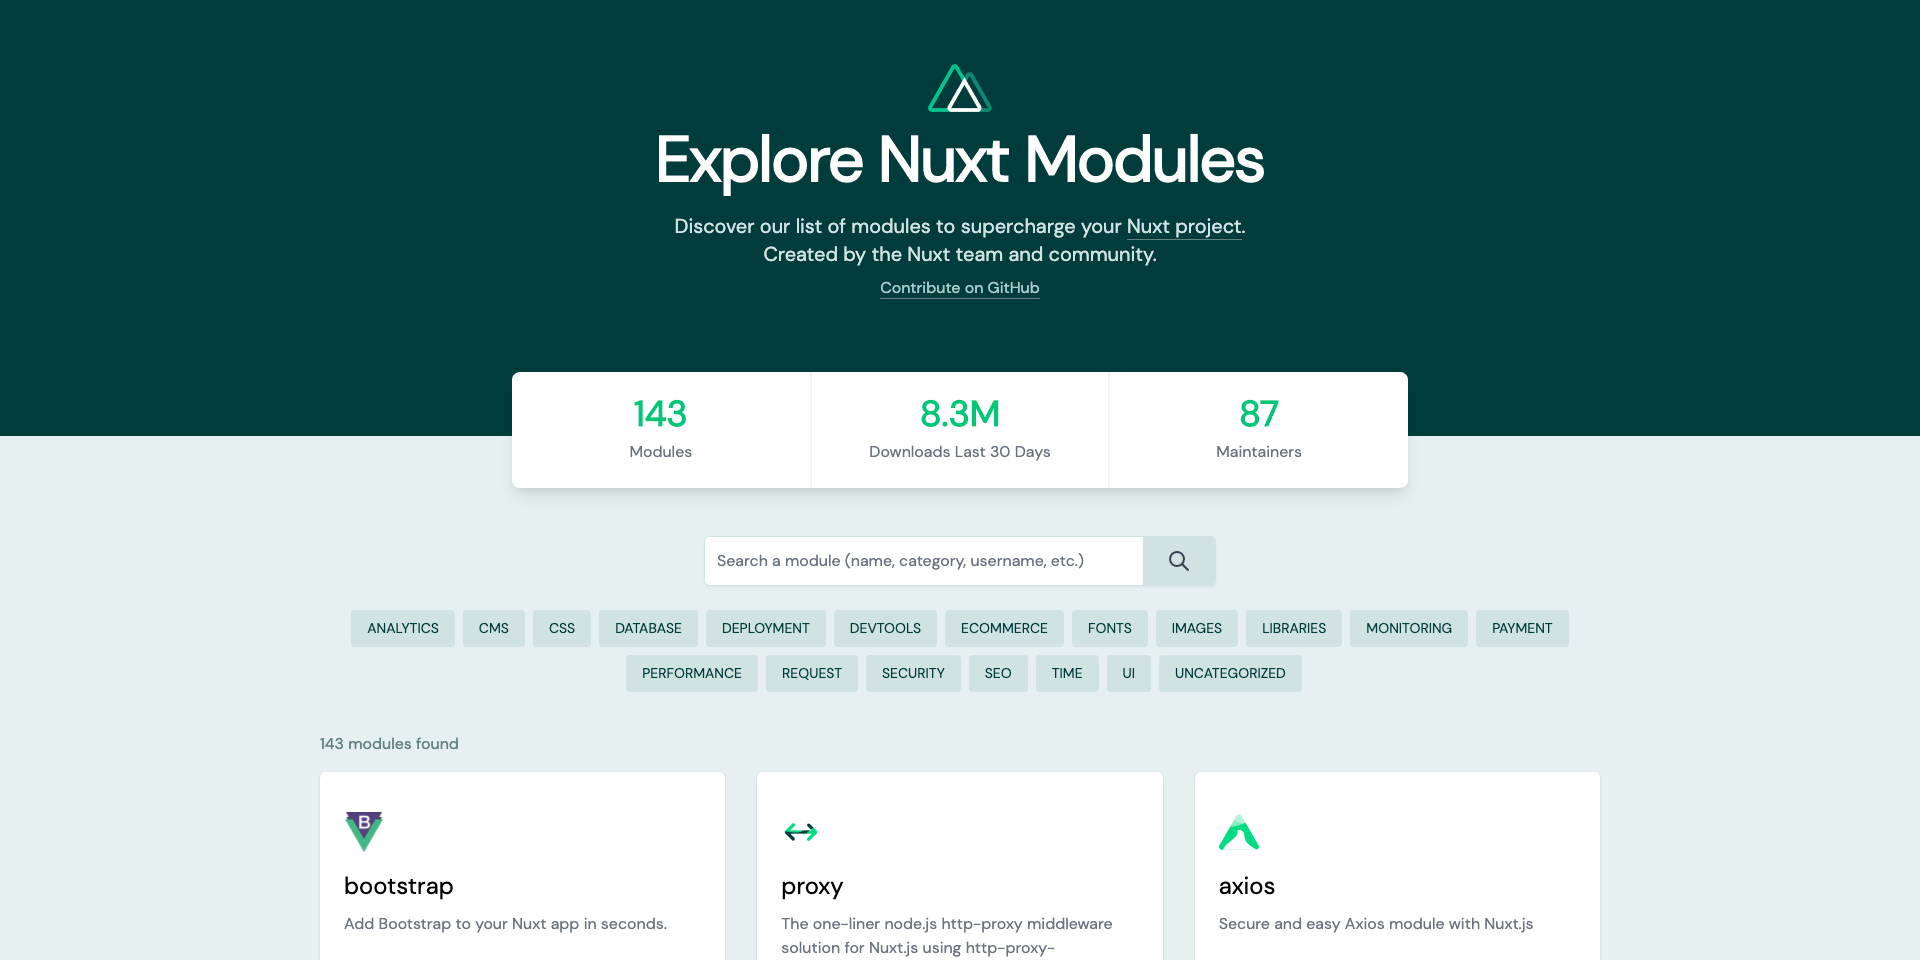
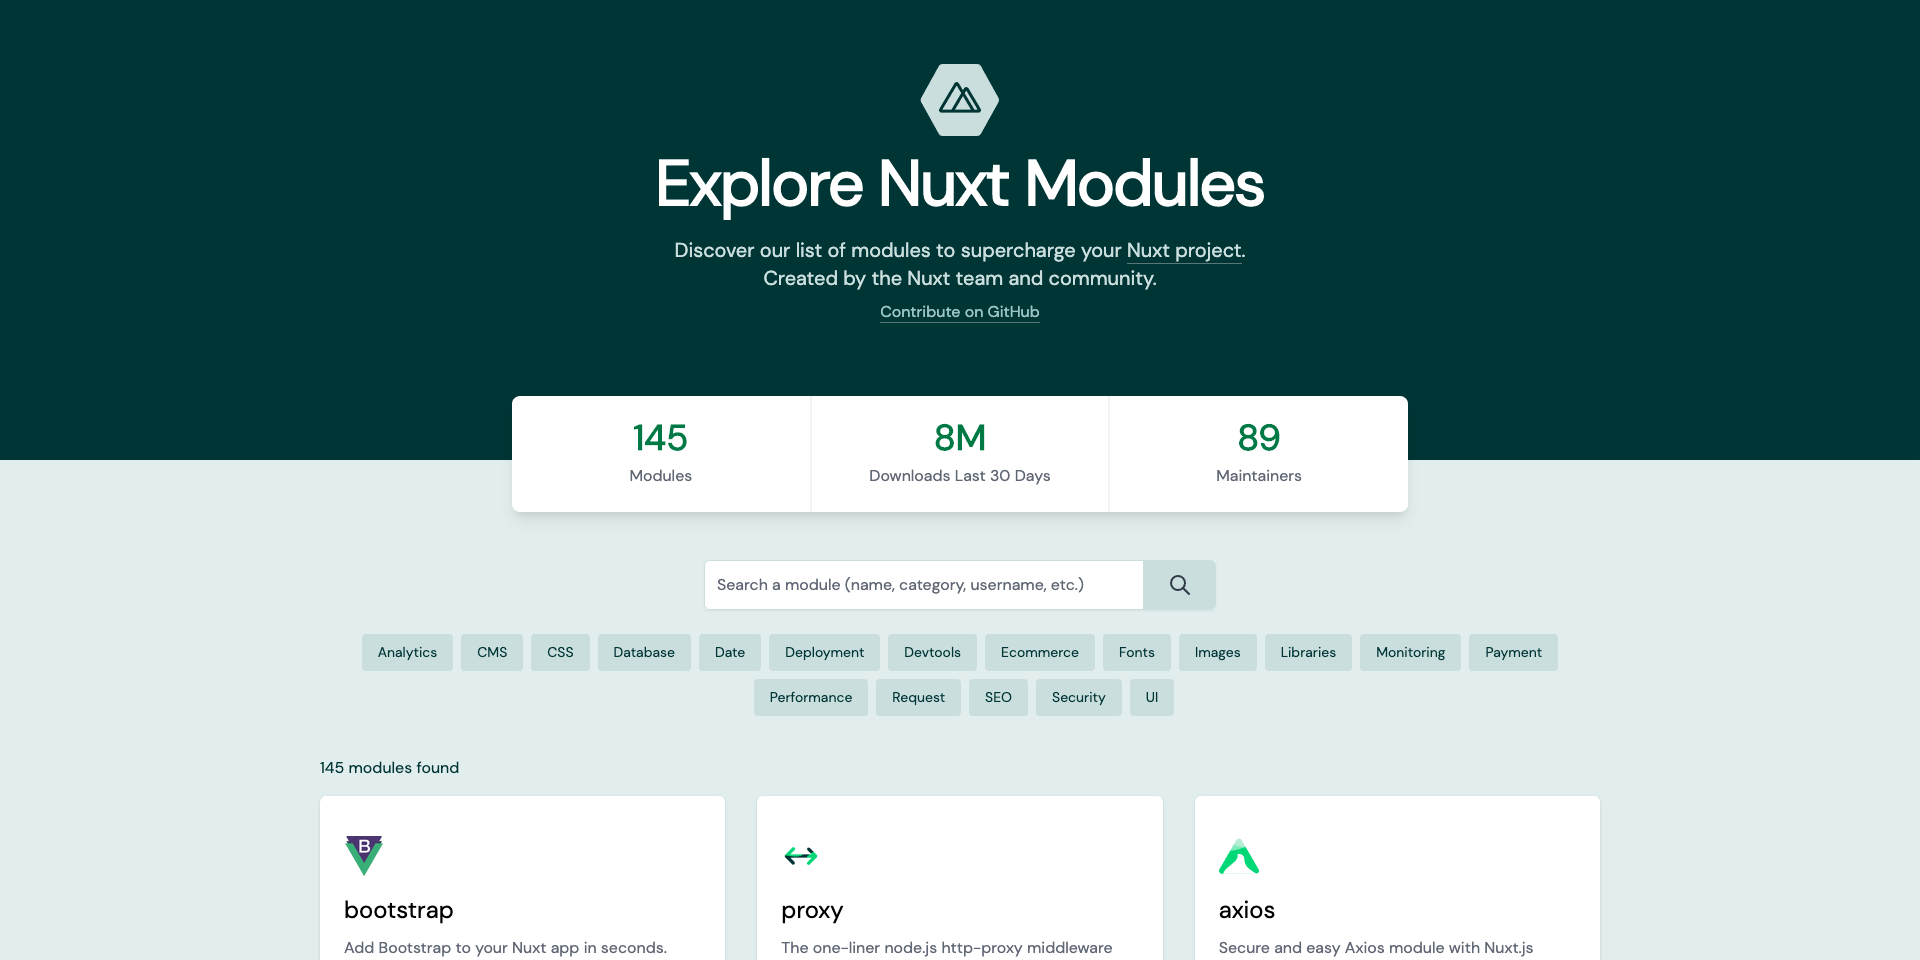
chore: update design

Changed region(s): [[0.0, 0.375, 1.0, 0.75], [0.1562, 0.75, 0.8438, 1.0], [0.3438, 0.0625, 0.6562, 0.3438]]

diff --git a/components/icons/IconWithNuxt.vue b/components/icons/IconWithNuxt.vue
@@ -1,29 +1,8 @@
 <template>
-  <svg
-    class="h-8"
-    viewBox="0 0 141 44"
-    fill="none"
-    xmlns="http://www.w3.org/2000/svg"
-  >
-    <path
-      d="M135.679 0H5.32075C2.38218 0 0 3.58172 0 8V36C0 40.4183 2.38218 44 5.32075 44H135.679C138.618 44 141 40.4183 141 36V8C141 3.58172 138.618 0 135.679 0Z"
-      fill="#003C3C"
-    />
-    <path
-      d="M114.815 17.233L113.925 18.7443L110.882 13.5743L101.541 29.4431H107.865C107.865 30.2778 108.555 30.9544 109.406 30.9544H101.541C100.99 30.9544 100.482 30.6662 100.207 30.1986C99.9315 29.731 99.9315 29.155 100.207 28.6874L109.548 12.8187C109.823 12.3511 110.332 12.063 110.882 12.063C111.433 12.063 111.942 12.3511 112.217 12.8187L114.815 17.233V17.233Z"
-      fill="#00DC82"
-    />
-    <path
-      d="M121.558 28.6874L115.705 18.7442L114.815 17.2329L113.925 18.7442L108.072 28.6874C107.797 29.1549 107.797 29.731 108.072 30.1986C108.347 30.6661 108.856 30.9543 109.406 30.9543H120.222C120.773 30.9543 121.281 30.6665 121.557 30.1988C121.832 29.7312 121.832 29.155 121.557 28.6874H121.558ZM109.406 29.443L114.815 20.2555L120.222 29.443H109.406L109.406 29.443Z"
-      fill="#00DC82"
-    />
-    <path
-      d="M125.743 30.1987C125.468 30.6662 124.96 30.9543 124.409 30.9543H120.222C121.073 30.9543 121.763 30.2777 121.763 29.443H124.406L116.906 16.702L115.705 18.7442L114.815 17.2329L115.572 15.9464C115.848 15.4787 116.356 15.1907 116.907 15.1907C117.457 15.1907 117.966 15.4787 118.241 15.9464L125.743 28.6873C126.018 29.1549 126.018 29.7311 125.743 30.1987V30.1987Z"
-      fill="#00DC82"
-    />
-    <path
-      d="M16.136 30V18.8H18.136L21.928 26.256L25.704 18.8H27.704V30H26.008V21.728L22.584 28.4H21.272L17.832 21.744V30H16.136ZM32.6038 30.192C31.9318 30.192 31.3771 30.08 30.9398 29.856C30.5024 29.632 30.1771 29.3387 29.9638 28.976C29.7504 28.6027 29.6438 28.1973 29.6438 27.76C29.6438 26.992 29.9424 26.384 30.5398 25.936C31.1371 25.488 31.9904 25.264 33.0998 25.264H35.1798V25.12C35.1798 24.5013 35.0091 24.0373 34.6678 23.728C34.3371 23.4187 33.9051 23.264 33.3718 23.264C32.9024 23.264 32.4918 23.3813 32.1398 23.616C31.7984 23.84 31.5904 24.176 31.5158 24.624H29.8198C29.8731 24.048 30.0651 23.5573 30.3958 23.152C30.7371 22.736 31.1638 22.4213 31.6758 22.208C32.1984 21.984 32.7691 21.872 33.3878 21.872C34.4971 21.872 35.3558 22.1653 35.9638 22.752C36.5718 23.328 36.8758 24.1173 36.8758 25.12V30H35.4038L35.2598 28.64C35.0358 29.0773 34.7104 29.4453 34.2838 29.744C33.8571 30.0427 33.2971 30.192 32.6038 30.192ZM32.9398 28.816C33.3984 28.816 33.7824 28.7093 34.0918 28.496C34.4118 28.272 34.6571 27.9787 34.8278 27.616C35.0091 27.2533 35.1211 26.8533 35.1638 26.416H33.2758C32.6038 26.416 32.1238 26.5333 31.8358 26.768C31.5584 27.0027 31.4198 27.296 31.4198 27.648C31.4198 28.0107 31.5531 28.2987 31.8198 28.512C32.0971 28.7147 32.4704 28.816 32.9398 28.816ZM42.4693 30.192C41.7013 30.192 41.0239 30.0107 40.4373 29.648C39.8506 29.2853 39.3919 28.7893 39.0613 28.16C38.7306 27.5307 38.5653 26.816 38.5653 26.016C38.5653 25.216 38.7306 24.5067 39.0613 23.888C39.3919 23.2587 39.8506 22.768 40.4373 22.416C41.0346 22.0533 41.7173 21.872 42.4852 21.872C43.1146 21.872 43.6639 21.9947 44.1333 22.24C44.6133 22.4853 44.9866 22.832 45.2533 23.28V18.48H46.9493V30H45.4293L45.2533 28.768C44.9973 29.1413 44.6453 29.472 44.1973 29.76C43.7493 30.048 43.1733 30.192 42.4693 30.192ZM42.7733 28.72C43.4986 28.72 44.0906 28.4693 44.5493 27.968C45.0186 27.4667 45.2533 26.8213 45.2533 26.032C45.2533 25.232 45.0186 24.5867 44.5493 24.096C44.0906 23.5947 43.4986 23.344 42.7733 23.344C42.0479 23.344 41.4506 23.5947 40.9813 24.096C40.5119 24.5867 40.2773 25.232 40.2773 26.032C40.2773 26.5547 40.3839 27.0187 40.5973 27.424C40.8106 27.8293 41.1039 28.1493 41.4773 28.384C41.8613 28.608 42.2933 28.72 42.7733 28.72ZM52.7996 30.192C52.021 30.192 51.3276 30.0213 50.7196 29.68C50.1223 29.328 49.653 28.8427 49.3116 28.224C48.9703 27.6053 48.7996 26.8853 48.7996 26.064C48.7996 25.232 48.965 24.5013 49.2956 23.872C49.637 23.2427 50.1063 22.752 50.7036 22.4C51.3116 22.048 52.0156 21.872 52.8156 21.872C53.5943 21.872 54.2716 22.048 54.8476 22.4C55.4236 22.7413 55.8716 23.2 56.1916 23.776C56.5116 24.352 56.6716 24.9867 56.6716 25.68C56.6716 25.7867 56.6663 25.904 56.6556 26.032C56.6556 26.1493 56.6503 26.2827 56.6396 26.432H50.4636C50.517 27.2 50.7676 27.7867 51.2156 28.192C51.6743 28.5867 52.2023 28.784 52.7996 28.784C53.2796 28.784 53.6796 28.6773 53.9996 28.464C54.3303 28.24 54.5756 27.9413 54.7356 27.568H56.4316C56.2183 28.3147 55.7916 28.9387 55.1516 29.44C54.5223 29.9413 53.7383 30.192 52.7996 30.192ZM52.7996 23.264C52.2343 23.264 51.733 23.4347 51.2956 23.776C50.8583 24.1067 50.5916 24.608 50.4956 25.28H54.9756C54.9436 24.6613 54.725 24.1707 54.3196 23.808C53.9143 23.4453 53.4076 23.264 52.7996 23.264ZM64.0466 30L61.7106 22.064H63.4066L64.9426 28.048L66.6706 22.064H68.5586L70.2866 28.048L71.8226 22.064H73.5186L71.1826 30H69.4386L67.6146 23.76L65.7906 30H64.0466ZM75.8758 20.56C75.5558 20.56 75.2891 20.464 75.0758 20.272C74.8731 20.0693 74.7718 19.8187 74.7718 19.52C74.7718 19.2213 74.8731 18.976 75.0758 18.784C75.2891 18.5813 75.5558 18.48 75.8758 18.48C76.1958 18.48 76.4571 18.5813 76.6598 18.784C76.8731 18.976 76.9798 19.2213 76.9798 19.52C76.9798 19.8187 76.8731 20.0693 76.6598 20.272C76.4571 20.464 76.1958 20.56 75.8758 20.56ZM75.0278 30V22.064H76.7238V30H75.0278ZM82.2906 30C81.512 30 80.8933 29.8133 80.4346 29.44C79.976 29.056 79.7466 28.3787 79.7466 27.408V23.488H78.3866V22.064H79.7466L79.9546 20.048H81.4426V22.064H83.6826V23.488H81.4426V27.408C81.4426 27.8453 81.5333 28.1493 81.7146 28.32C81.9066 28.48 82.232 28.56 82.6906 28.56H83.6026V30H82.2906ZM85.4314 30V18.48H87.1274V23.344C87.394 22.8853 87.762 22.528 88.2314 22.272C88.7114 22.0053 89.2394 21.872 89.8154 21.872C90.7647 21.872 91.5114 22.1707 92.0554 22.768C92.5994 23.3653 92.8714 24.256 92.8714 25.44V30H91.1914V25.616C91.1914 24.08 90.578 23.312 89.3514 23.312C88.7114 23.312 88.178 23.536 87.7514 23.984C87.3354 24.432 87.1274 25.072 87.1274 25.904V30H85.4314Z"
-      fill="#E6F0F0"
-    />
+  <svg class="h-8" viewBox="0 0 204 44" fill="none" xmlns="http://www.w3.org/2000/svg">
+    <path d="M196.302 0H7.69811C3.44656 0 0 3.58172 0 8V36C0 40.4183 3.44656 44 7.69811 44H196.302C200.553 44 204 40.4183 204 36V8C204 3.58172 200.553 0 196.302 0Z" fill="#003C3C"/>
+    <path d="M55.184 28V16.8H56.752L60.784 24.608L64.784 16.8H66.368V28H65.024V19.2L61.28 26.4H60.272L56.528 19.216V28H55.184ZM71.2909 28.192C70.6295 28.192 70.0802 28.08 69.6429 27.856C69.2055 27.632 68.8802 27.3333 68.6669 26.96C68.4535 26.5867 68.3469 26.1813 68.3469 25.744C68.3469 24.9333 68.6562 24.3093 69.2749 23.872C69.8935 23.4347 70.7362 23.216 71.8029 23.216H73.9469V23.12C73.9469 22.4267 73.7655 21.904 73.4029 21.552C73.0402 21.1893 72.5549 21.008 71.9469 21.008C71.4242 21.008 70.9709 21.1413 70.5869 21.408C70.2135 21.664 69.9789 22.0427 69.8829 22.544H68.5069C68.5602 21.968 68.7522 21.4827 69.0829 21.088C69.4242 20.6933 69.8455 20.3947 70.3469 20.192C70.8482 19.9787 71.3815 19.872 71.9469 19.872C73.0562 19.872 73.8882 20.1707 74.4429 20.768C75.0082 21.3547 75.2909 22.1387 75.2909 23.12V28H74.0909L74.0109 26.576C73.7869 27.024 73.4562 27.408 73.0189 27.728C72.5922 28.0373 72.0162 28.192 71.2909 28.192ZM71.4989 27.056C72.0109 27.056 72.4482 26.9227 72.8109 26.656C73.1842 26.3893 73.4669 26.0427 73.6589 25.616C73.8509 25.1893 73.9469 24.7413 73.9469 24.272V24.256H71.9149C71.1255 24.256 70.5655 24.3947 70.2349 24.672C69.9149 24.9387 69.7549 25.2747 69.7549 25.68C69.7549 26.096 69.9042 26.432 70.2029 26.688C70.5122 26.9333 70.9442 27.056 71.4989 27.056ZM80.9071 28.192C80.1178 28.192 79.4245 28.0107 78.8271 27.648C78.2405 27.2853 77.7818 26.7893 77.4511 26.16C77.1311 25.5307 76.9711 24.816 76.9711 24.016C76.9711 23.216 77.1365 22.5067 77.4671 21.888C77.7978 21.2587 78.2565 20.768 78.8431 20.416C79.4298 20.0533 80.1231 19.872 80.9231 19.872C81.5738 19.872 82.1498 20.0053 82.6511 20.272C83.1525 20.5387 83.5418 20.912 83.8191 21.392V16.48H85.1631V28H83.9471L83.8191 26.688C83.5631 27.072 83.1951 27.4187 82.7151 27.728C82.2351 28.0373 81.6325 28.192 80.9071 28.192ZM81.0511 27.024C81.5845 27.024 82.0538 26.9013 82.4591 26.656C82.8751 26.4 83.1951 26.048 83.4191 25.6C83.6538 25.152 83.7711 24.6293 83.7711 24.032C83.7711 23.4347 83.6538 22.912 83.4191 22.464C83.1951 22.016 82.8751 21.6693 82.4591 21.424C82.0538 21.168 81.5845 21.04 81.0511 21.04C80.5285 21.04 80.0591 21.168 79.6431 21.424C79.2378 21.6693 78.9178 22.016 78.6831 22.464C78.4591 22.912 78.3471 23.4347 78.3471 24.032C78.3471 24.6293 78.4591 25.152 78.6831 25.6C78.9178 26.048 79.2378 26.4 79.6431 26.656C80.0591 26.9013 80.5285 27.024 81.0511 27.024ZM90.922 28.192C90.1647 28.192 89.4927 28.0213 88.906 27.68C88.3193 27.328 87.8553 26.8427 87.514 26.224C87.1833 25.6053 87.018 24.8747 87.018 24.032C87.018 23.2 87.1833 22.4747 87.514 21.856C87.8447 21.2267 88.3033 20.7413 88.89 20.4C89.4873 20.048 90.1753 19.872 90.954 19.872C91.722 19.872 92.3833 20.048 92.938 20.4C93.5033 20.7413 93.9353 21.1947 94.234 21.76C94.5327 22.3253 94.682 22.9333 94.682 23.584C94.682 23.7013 94.6767 23.8187 94.666 23.936C94.666 24.0533 94.666 24.1867 94.666 24.336H88.346C88.378 24.944 88.5167 25.4507 88.762 25.856C89.018 26.2507 89.3327 26.5493 89.706 26.752C90.09 26.9547 90.4953 27.056 90.922 27.056C91.4767 27.056 91.9407 26.928 92.314 26.672C92.6873 26.416 92.9593 26.0693 93.13 25.632H94.458C94.2447 26.368 93.834 26.9813 93.226 27.472C92.6287 27.952 91.8607 28.192 90.922 28.192ZM90.922 21.008C90.282 21.008 89.7113 21.2053 89.21 21.6C88.7193 21.984 88.4367 22.5493 88.362 23.296H93.354C93.322 22.5813 93.0767 22.0213 92.618 21.616C92.1593 21.2107 91.594 21.008 90.922 21.008ZM102.298 28L99.9778 20.064H101.322L103.002 26.288L104.858 20.064H106.378L108.25 26.288L109.914 20.064H111.274L108.954 28H107.578L105.626 21.456L103.674 28H102.298ZM113.576 18.304C113.31 18.304 113.086 18.2187 112.904 18.048C112.734 17.8667 112.648 17.6427 112.648 17.376C112.648 17.12 112.734 16.9067 112.904 16.736C113.086 16.5653 113.31 16.48 113.576 16.48C113.832 16.48 114.051 16.5653 114.232 16.736C114.414 16.9067 114.504 17.12 114.504 17.376C114.504 17.6427 114.414 17.8667 114.232 18.048C114.051 18.2187 113.832 18.304 113.576 18.304ZM112.904 28V20.064H114.248V28H112.904ZM119.724 28C118.999 28 118.428 27.824 118.012 27.472C117.596 27.12 117.388 26.4853 117.388 25.568V21.2H116.012V20.064H117.388L117.564 18.16H118.732V20.064H121.068V21.2H118.732V25.568C118.732 26.0693 118.834 26.4107 119.036 26.592C119.239 26.7627 119.596 26.848 120.108 26.848H120.94V28H119.724ZM122.776 28V16.48H124.12V21.424C124.387 20.9333 124.765 20.5547 125.256 20.288C125.747 20.0107 126.28 19.872 126.856 19.872C127.773 19.872 128.509 20.16 129.064 20.736C129.619 21.3013 129.896 22.176 129.896 23.36V28H128.568V23.504C128.568 21.8507 127.901 21.024 126.568 21.024C125.875 21.024 125.293 21.2747 124.824 21.776C124.355 22.2667 124.12 22.9707 124.12 23.888V28H122.776ZM135.947 28V16.8H137.995L143.259 24.688V16.8H145.307V28H143.259L137.995 20.128V28H135.947ZM150.407 28.192C149.415 28.192 148.647 27.8827 148.103 27.264C147.569 26.6453 147.303 25.7387 147.303 24.544V20.064H149.335V24.352C149.335 25.0347 149.473 25.5573 149.751 25.92C150.028 26.2827 150.465 26.464 151.063 26.464C151.628 26.464 152.092 26.2613 152.455 25.856C152.828 25.4507 153.015 24.8853 153.015 24.16V20.064H155.063V28H153.255L153.095 26.656C152.849 27.1253 152.492 27.4987 152.023 27.776C151.564 28.0533 151.025 28.192 150.407 28.192ZM156.413 28L159.293 24.032L156.413 20.064H158.605L160.621 22.88L162.621 20.064H164.829L161.933 24.032L164.829 28H162.621L160.621 25.184L158.605 28H156.413ZM169.67 28C168.838 28 168.171 27.7973 167.67 27.392C167.168 26.9867 166.918 26.2667 166.918 25.232V21.776H165.558V20.064H166.918L167.158 17.936H168.966V20.064H171.11V21.776H168.966V25.248C168.966 25.632 169.046 25.8987 169.206 26.048C169.376 26.1867 169.664 26.256 170.07 26.256H171.062V28H169.67ZM175.844 28.192C174.756 28.192 173.881 27.888 173.22 27.28C172.569 26.6613 172.244 25.7867 172.244 24.656H174.292C174.303 25.1787 174.425 25.5947 174.66 25.904C174.895 26.2133 175.273 26.368 175.796 26.368C176.287 26.368 176.644 26.224 176.868 25.936C177.092 25.6373 177.204 25.248 177.204 24.768V16.8H179.252V24.768C179.252 25.8667 178.943 26.7147 178.324 27.312C177.716 27.8987 176.889 28.192 175.844 28.192ZM185.256 28.192C184.434 28.192 183.709 28.0533 183.08 27.776C182.45 27.488 181.954 27.0827 181.592 26.56C181.229 26.0267 181.042 25.3813 181.032 24.624H183.192C183.213 25.1467 183.4 25.5893 183.752 25.952C184.114 26.304 184.61 26.48 185.24 26.48C185.784 26.48 186.216 26.352 186.536 26.096C186.856 25.8293 187.016 25.4773 187.016 25.04C187.016 24.5813 186.872 24.224 186.584 23.968C186.306 23.712 185.933 23.504 185.464 23.344C184.994 23.184 184.493 23.0133 183.96 22.832C183.096 22.5333 182.434 22.1493 181.976 21.68C181.528 21.2107 181.304 20.5867 181.304 19.808C181.293 19.1467 181.448 18.5813 181.768 18.112C182.098 17.632 182.546 17.264 183.112 17.008C183.677 16.7413 184.328 16.608 185.064 16.608C185.81 16.608 186.466 16.7413 187.032 17.008C187.608 17.2747 188.056 17.648 188.376 18.128C188.706 18.608 188.882 19.1787 188.904 19.84H186.712C186.701 19.4453 186.546 19.0987 186.248 18.8C185.96 18.4907 185.554 18.336 185.032 18.336C184.584 18.3253 184.205 18.4373 183.896 18.672C183.597 18.896 183.448 19.2267 183.448 19.664C183.448 20.0373 183.565 20.336 183.8 20.56C184.034 20.7733 184.354 20.9547 184.76 21.104C185.165 21.2533 185.629 21.4133 186.152 21.584C186.706 21.776 187.213 22 187.672 22.256C188.13 22.512 188.498 22.8533 188.776 23.28C189.053 23.696 189.192 24.2347 189.192 24.896C189.192 25.4827 189.042 26.0267 188.744 26.528C188.445 27.0293 188.002 27.4347 187.416 27.744C186.829 28.0427 186.109 28.192 185.256 28.192Z" fill="#E6F0F0"/>
+    <path fill-rule="evenodd" clip-rule="evenodd" d="M24.6641 18.2928L22.4712 14.6275C22.2388 14.2392 21.8095 14 21.3449 14C20.8802 14 20.4509 14.2392 20.2186 14.6275L12.3337 27.8039C12.2911 27.8752 12.2562 27.9495 12.2293 28.0257L12.1742 28.1177C11.9419 28.5059 11.9419 28.9842 12.1742 29.3724C12.4064 29.7607 12.8357 30 13.3003 30L29.3878 30C29.3926 30 29.3974 30 29.4022 29.9999H32.922C33.3865 29.9999 33.8157 29.7606 34.048 29.3725C34.2803 28.9842 34.2803 28.5058 34.048 28.1176L33.993 28.0257C33.966 27.9494 33.9312 27.8751 33.8885 27.8038L27.5561 17.2245C27.3238 16.8362 26.8945 16.597 26.4298 16.597C25.9652 16.597 25.5359 16.8362 25.3036 17.2245L24.6641 18.2928ZM32.4126 28.4313L26.4296 18.4322L25.5887 19.8378L30.356 27.8039H30.3549C30.3967 27.8738 30.431 27.9466 30.4578 28.0212L30.5155 28.1176H30.5144C30.574 28.2173 30.6183 28.3228 30.6473 28.4313H32.4126ZM18.8133 28.1176L18.8683 28.0257C18.8953 27.9495 18.9301 27.8752 18.9728 27.8039L23.7395 19.8378L21.3446 15.8351L13.8069 28.4314H18.6804C18.7094 28.3229 18.7537 28.2173 18.8133 28.1176ZM24.6641 21.3828L20.446 28.4314L28.8812 28.4314L24.6641 21.3828Z" fill="#00DC82"/>
+    <rect x="44" width="1" height="44" fill="#2A5B5B"/>
   </svg>
 </template>

diff --git a/components/icons/IconNuxt.vue b/components/icons/IconNuxt.vue
@@ -1,18 +1,6 @@
 <template>
-  <svg class="w-16" xmlns="http://www.w3.org/2000/svg" viewBox="0 0 400 298">
-    <g fill="none" fill-rule="nonzero">
-      <path
-        fill="#00C58E"
-        d="M227.92099 82.07407l-13.6889 23.7037-46.8148-81.08641L23.7037 273.58025h97.3037c0 13.0912 10.61252 23.7037 23.70371 23.7037H23.70371c-8.46771 0-16.29145-4.52017-20.5246-11.85382-4.23315-7.33366-4.23272-16.36849.00114-23.70174L146.89383 12.83951c4.23415-7.33433 12.0596-11.85252 20.5284-11.85252 8.46878 0 16.29423 4.51819 20.52839 11.85252l39.97037 69.23456z"
-      />
-      <path
-        fill="#FFF"
-        d="M331.6642 261.7284l-90.05432-155.95062-13.6889-23.7037-13.68888 23.7037-90.04445 155.95061c-4.23385 7.33325-4.23428 16.36808-.00113 23.70174 4.23314 7.33365 12.05689 11.85382 20.5246 11.85382h166.4c8.46946 0 16.29644-4.51525 20.532-11.84955 4.23555-7.3343 4.23606-16.37123.00132-23.706h.01976zM144.7111 273.58024L227.921 129.48148l83.19012 144.09877h-166.4z"
-      />
-      <path
-        fill="#108775"
-        d="M396.04938 285.4321c-4.23344 7.33254-12.05656 11.85185-20.52345 11.85185H311.1111c13.0912 0 23.7037-10.6125 23.7037-23.7037h40.66173L260.09877 73.74815l-18.4889 32.02963-13.68888-23.7037L239.5753 61.8963c4.23416-7.33433 12.0596-11.85252 20.5284-11.85252 8.46879 0 16.29423 4.51819 20.52839 11.85252l115.41728 199.8321c4.23426 7.33395 4.23426 16.36975 0 23.7037z"
-      />
-    </g>
+  <svg class="w-20" viewBox="0 0 266 240" fill="none" xmlns="http://www.w3.org/2000/svg">
+    <path d="M202.305 233.294C200.015 237.432 195.659 240 190.93 240L74.0694 240C69.3405 240 64.9846 237.432 62.6949 233.294L3.48322 126.294C1.31593 122.378 1.31593 117.622 3.48322 113.706L62.6949 6.70556C64.9846 2.56792 69.3405 0 74.0694 0L190.93 0C195.659 0 200.015 2.56791 202.305 6.70552L261.517 113.706C263.684 117.622 263.684 122.378 261.517 126.294L202.305 233.294Z" fill="#D1E2E2"/>
+    <path fill-rule="evenodd" clip-rule="evenodd" d="M142.784 87.3668L128.968 64.0002C127.505 61.5249 124.8 60 121.873 60C118.945 60 116.24 61.5249 114.777 64.0002L65.1023 148C64.8336 148.454 64.6143 148.928 64.4443 149.414L64.0977 150C62.6342 152.475 62.6341 155.524 64.0973 157.999C65.5605 160.474 68.2648 162 71.1916 162L172.543 162C172.574 162 172.604 162 172.634 161.999H194.808C197.735 161.999 200.439 160.474 201.902 157.999C203.366 155.524 203.366 152.475 201.902 149.999L201.556 149.414C201.386 148.928 201.166 148.454 200.898 147.999L161.004 80.5562C159.54 78.0809 156.835 76.556 153.908 76.556C150.981 76.556 148.276 78.0809 146.812 80.5562L142.784 87.3668ZM191.599 151.999L153.906 88.2553L148.609 97.2158L178.643 148H178.636C178.899 148.445 179.115 148.909 179.284 149.385L179.647 150H179.641C180.016 150.635 180.295 151.308 180.478 151.999H191.599ZM105.924 150L106.271 149.414C106.441 148.928 106.66 148.454 106.929 148L136.959 97.2162L121.871 71.6991L74.3835 152H105.086C105.269 151.308 105.548 150.635 105.924 150ZM142.784 107.066L116.21 152L169.352 152L142.784 107.066Z" fill="#003C3C"/>
   </svg>
 </template>

diff --git a/layouts/default.vue b/layouts/default.vue
@@ -27,9 +27,6 @@ export default {
     bodyAttrs: {
       class: 'bg-cloudy-grey min-h-screen'
     },
-    link: [
-      { rel: 'shortcut icon', href: '/favicon.ico' }
-    ],
     meta: [
       { hid: 'charset', charset: 'utf-8' },
       { hid: 'viewport', name: 'viewport', content: 'width=device-width, initial-scale=1' }
